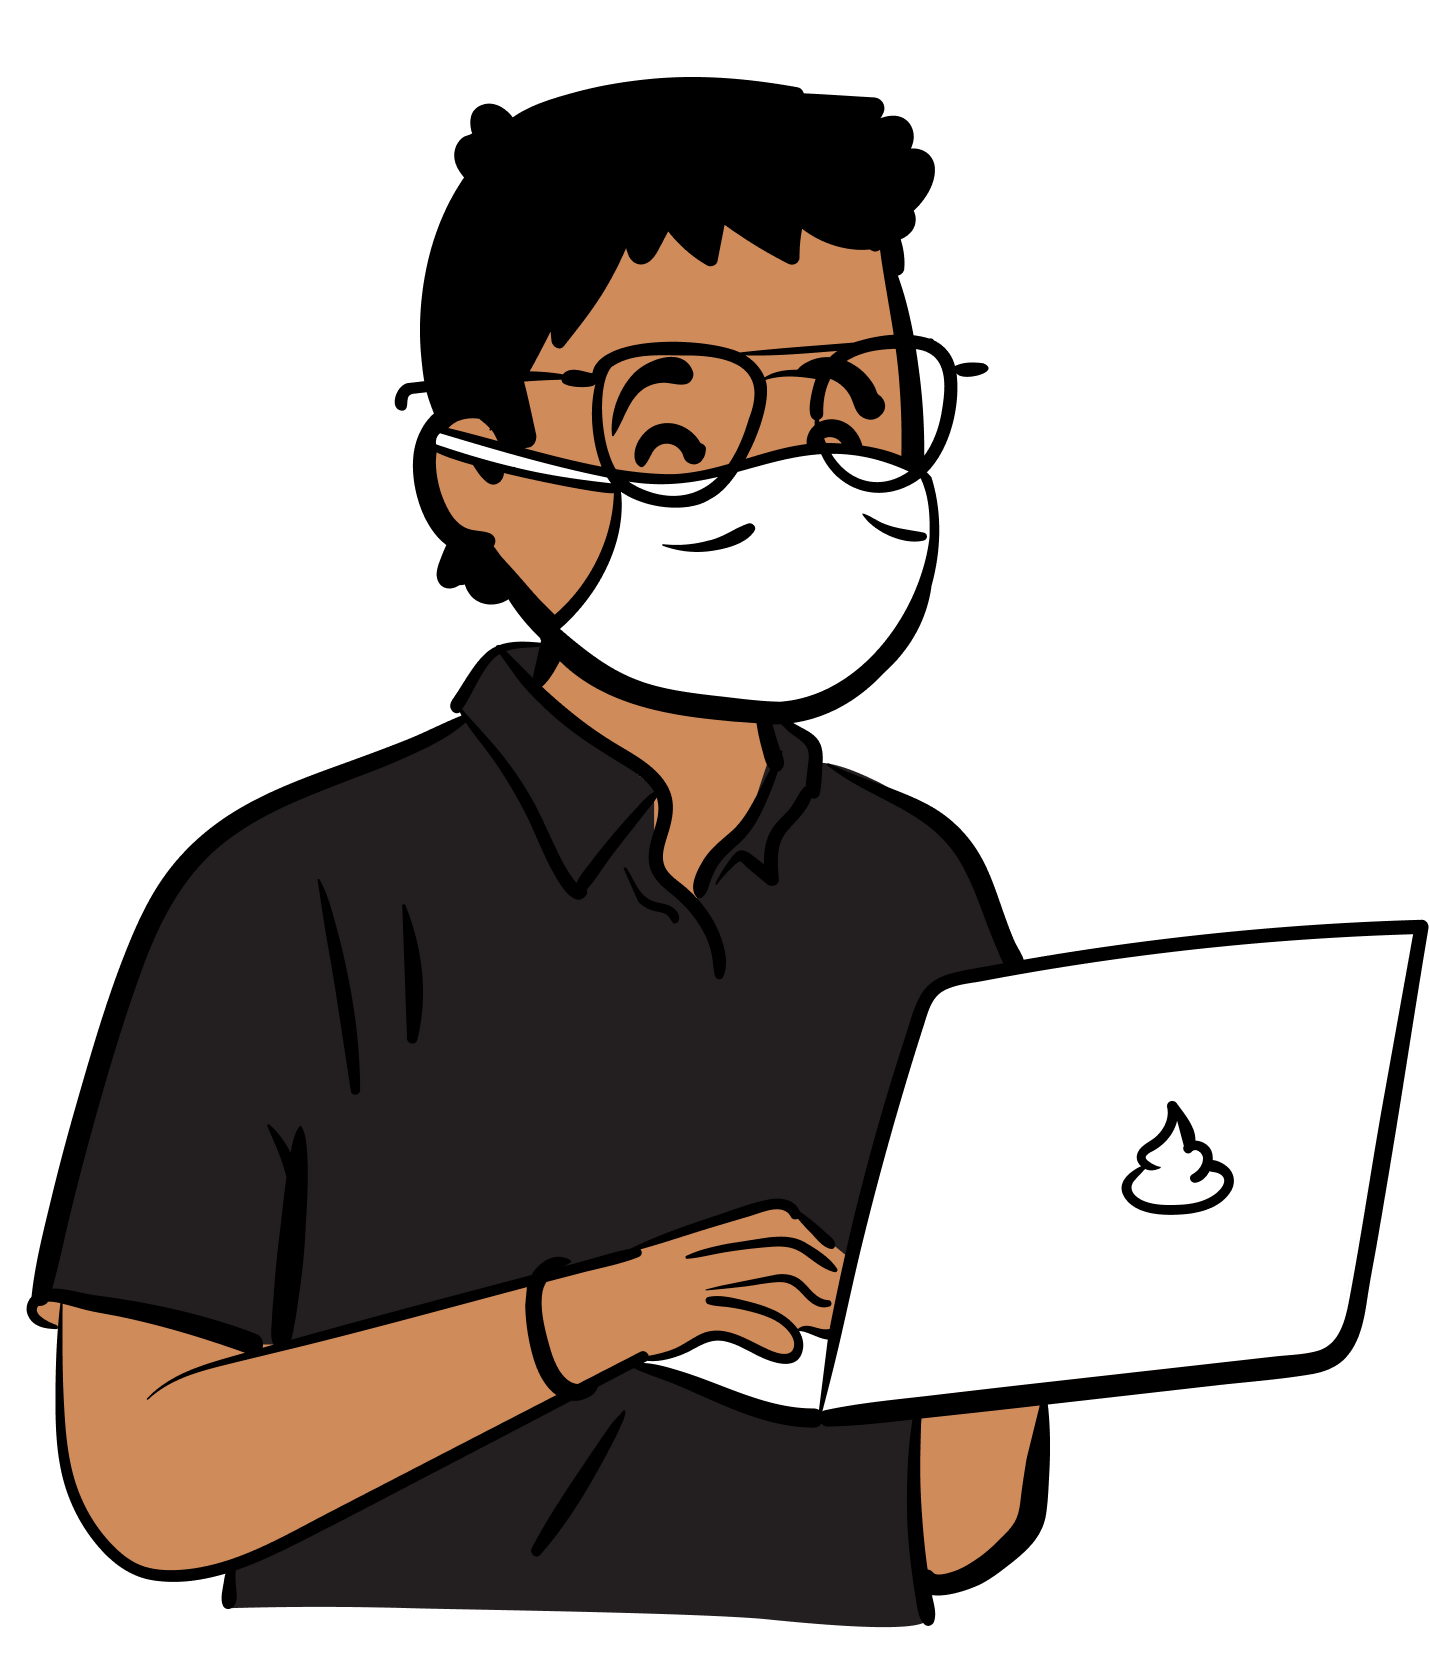
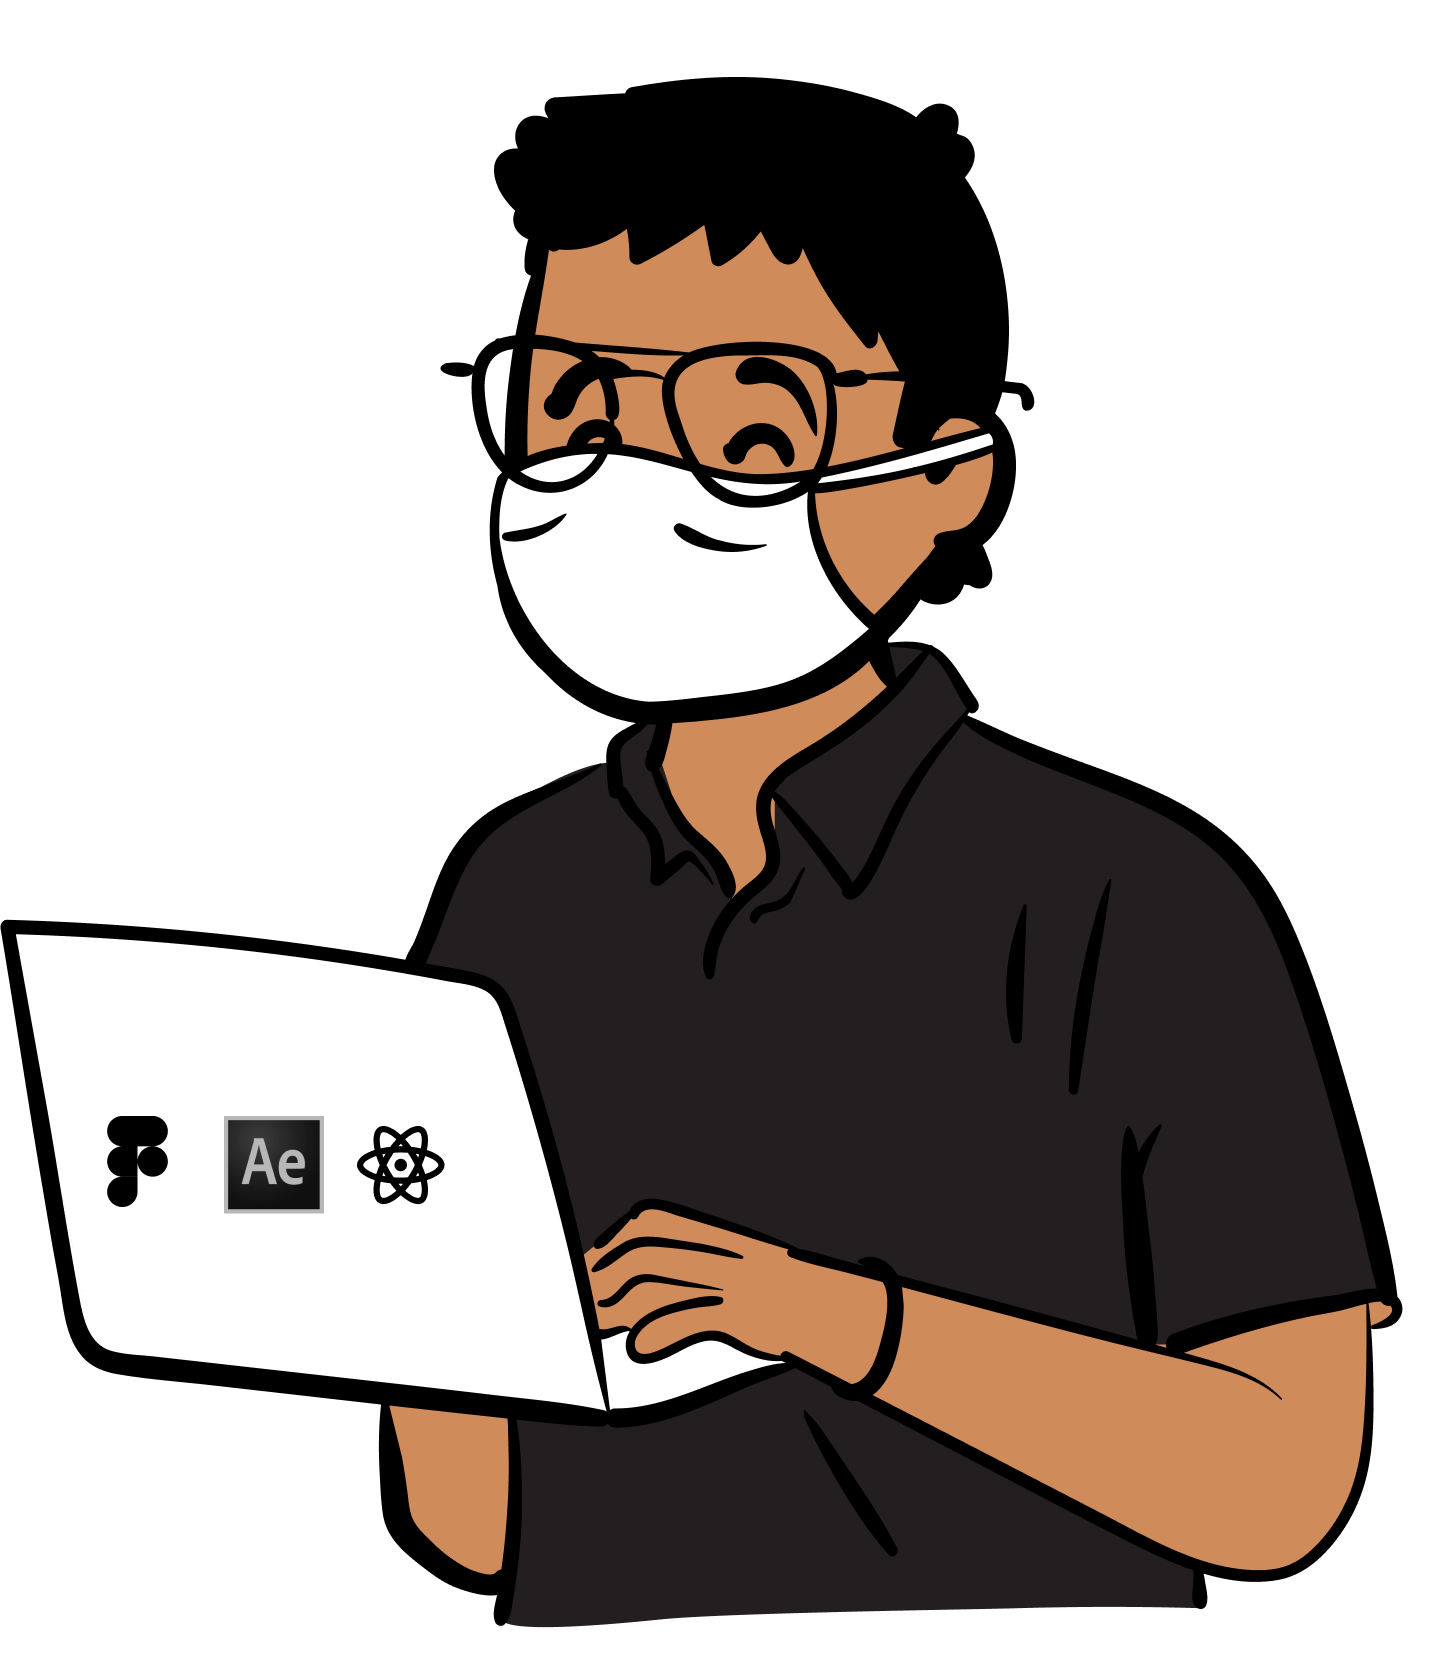
changed hero

diff --git a/src/components/about.js b/src/components/about.js
@@ -3,51 +3,7 @@ import React from 'react'
 function About() {
     return (
         <div className="#about">
-            <section class="text-gray-700 body-font">
-  <div class="container px-5 py-24 mx-auto">
-    <div class="flex flex-wrap w-full mb-20">
-      <div class="lg:w-1/2 w-full mb-6 lg:mb-0">
-        <h1 class="sm:text-3xl text-2xl font-medium title-font mb-2 text-gray-900">About</h1>
-        <div class="h-1 w-20 bg-indigo-500 rounded"></div>
-      </div>
-      <p class="lg:w-1/2 w-full leading-relaxed text-base">Whatever cardigan tote bag tumblr hexagon brooklyn asymmetrical gentrify, subway tile poke farm-to-table. Franzen you probably haven't heard of them man bun deep jianbing selfies heirloom prism food truck ugh squid celiac humblebrag.</p>
-    </div>
-    <div class="flex flex-wrap -m-4">
-      <div class="xl:w-1/4 md:w-1/2 p-4">
-        <div class="bg-gray-100 p-6 rounded-lg">
-          <img class="h-40 rounded w-full object-cover object-center mb-6" src="https://dummyimage.com/720x400" alt="content"/>
-          <h3 class="tracking-widest text-indigo-500 text-xs font-medium title-font">SUBTITLE</h3>
-          <h2 class="text-lg text-gray-900 font-medium title-font mb-4">Chichen Itza</h2>
-          <p class="leading-relaxed text-base">Fingerstache flexitarian street art 8-bit waistcoat. Distillery hexagon disrupt edison bulbche.</p>
-        </div>
-      </div>
-      <div class="xl:w-1/4 md:w-1/2 p-4">
-        <div class="bg-gray-100 p-6 rounded-lg">
-          <img class="h-40 rounded w-full object-cover object-center mb-6" src="https://dummyimage.com/721x401" alt="content"/>
-          <h3 class="tracking-widest text-indigo-500 text-xs font-medium title-font">SUBTITLE</h3>
-          <h2 class="text-lg text-gray-900 font-medium title-font mb-4">Colosseum Roma</h2>
-          <p class="leading-relaxed text-base">Fingerstache flexitarian street art 8-bit waistcoat. Distillery hexagon disrupt edison bulbche.</p>
-        </div>
-      </div>
-      <div class="xl:w-1/4 md:w-1/2 p-4">
-        <div class="bg-gray-100 p-6 rounded-lg">
-          <img class="h-40 rounded w-full object-cover object-center mb-6" src="https://dummyimage.com/722x402" alt="content"/>
-          <h3 class="tracking-widest text-indigo-500 text-xs font-medium title-font">SUBTITLE</h3>
-          <h2 class="text-lg text-gray-900 font-medium title-font mb-4">Great Pyramid of Giza</h2>
-          <p class="leading-relaxed text-base">Fingerstache flexitarian street art 8-bit waistcoat. Distillery hexagon disrupt edison bulbche.</p>
-        </div>
-      </div>
-      <div class="xl:w-1/4 md:w-1/2 p-4">
-        <div class="bg-gray-100 p-6 rounded-lg">
-          <img class="h-40 rounded w-full object-cover object-center mb-6" src="https://dummyimage.com/723x403" alt="content"/>
-          <h3 class="tracking-widest text-indigo-500 text-xs font-medium title-font">SUBTITLE</h3>
-          <h2 class="text-lg text-gray-900 font-medium title-font mb-4">San Francisco</h2>
-          <p class="leading-relaxed text-base">Fingerstache flexitarian street art 8-bit waistcoat. Distillery hexagon disrupt edison bulbche.</p>
-        </div>
-      </div>
-    </div>
-  </div>
-</section>
+    
         </div>
     )
 }

diff --git a/src/components/hero.js b/src/components/hero.js
@@ -6,7 +6,8 @@ export default function Hero() {
         <div>
             <section class="text-gray-700 body-font">
   <div class="container mx-auto flex px-5 py-24 md:flex-row flex-col items-center">
-    <div class="lg:flex-grow md:w-1/2 lg:pr-24 md:pr-16 flex flex-col md:items-start md:text-left mb-16 md:mb-0 items-center text-center order-last">
+ 
+    <div class="lg:flex-grow md:w-1/2 lg:pr-24 md:pr-16 flex flex-col md:items-start md:text-left mb-16 md:mb-0 items-center text-center md:order-1 order-2">
       <h1 class="title-font sm:text-5xl text-4xl mb-4 font-medium text-gray-900">Hi👋,<br/> I am <span class="text-indigo-600 ">Harsh Badhai</span>,
       <br/> <span className="sm:text-5xl text-4xl">A Digital Product Designer</span>
       </h1>
@@ -16,8 +17,8 @@ export default function Hero() {
         <button class="ml-4 inline-flex text-gray-700 bg-gray-200 border-0 py-2 px-6 focus:outline-none hover:bg-gray-300 rounded text-lg"> <a href="https://drive.google.com/file/d/1uTIPwsX5I0q9_DvJEU2nM1eFY_2xzIoi/view?usp=sharing" rel="noopener noreferrer" target="_blank" >Resume</a></button>
       </div>
     </div>
-    <div class="lg:max-w-lg lg:w-full md:w-1/2 w-5/6 order-first ">
-      <img class="object-cover object-center rounded" alt="hero" src={hero} />
+    <div class="lg:max-w-lg lg:w-full md:w-1/2 w-5/6 md:order-2 order-1 ">
+      <img class="object-cover object-center rounded" alt="harsh illu" src={hero} />
     </div>
   </div>
 </section>
